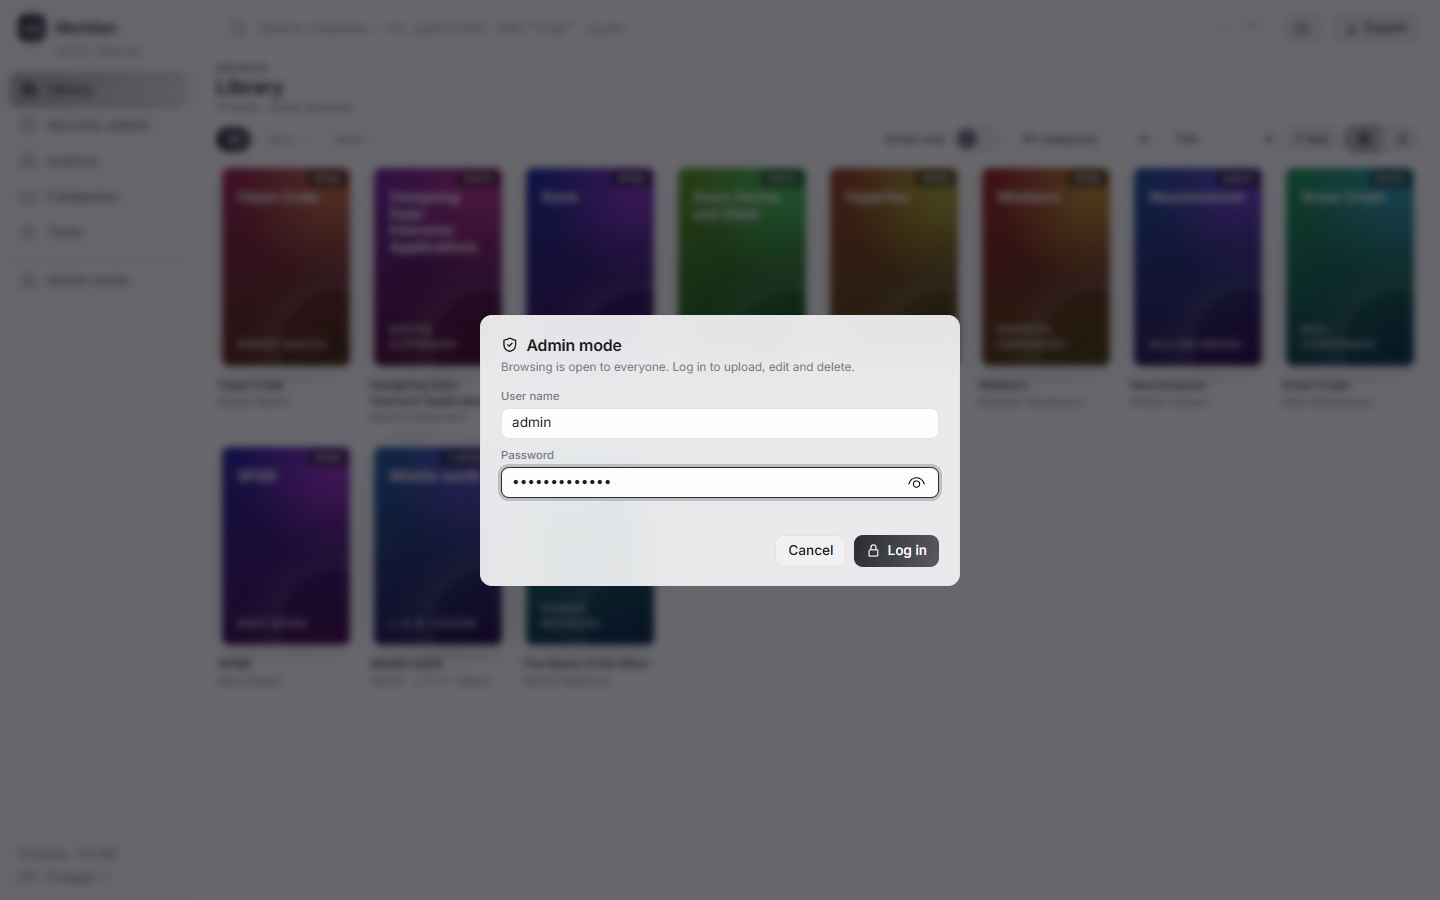
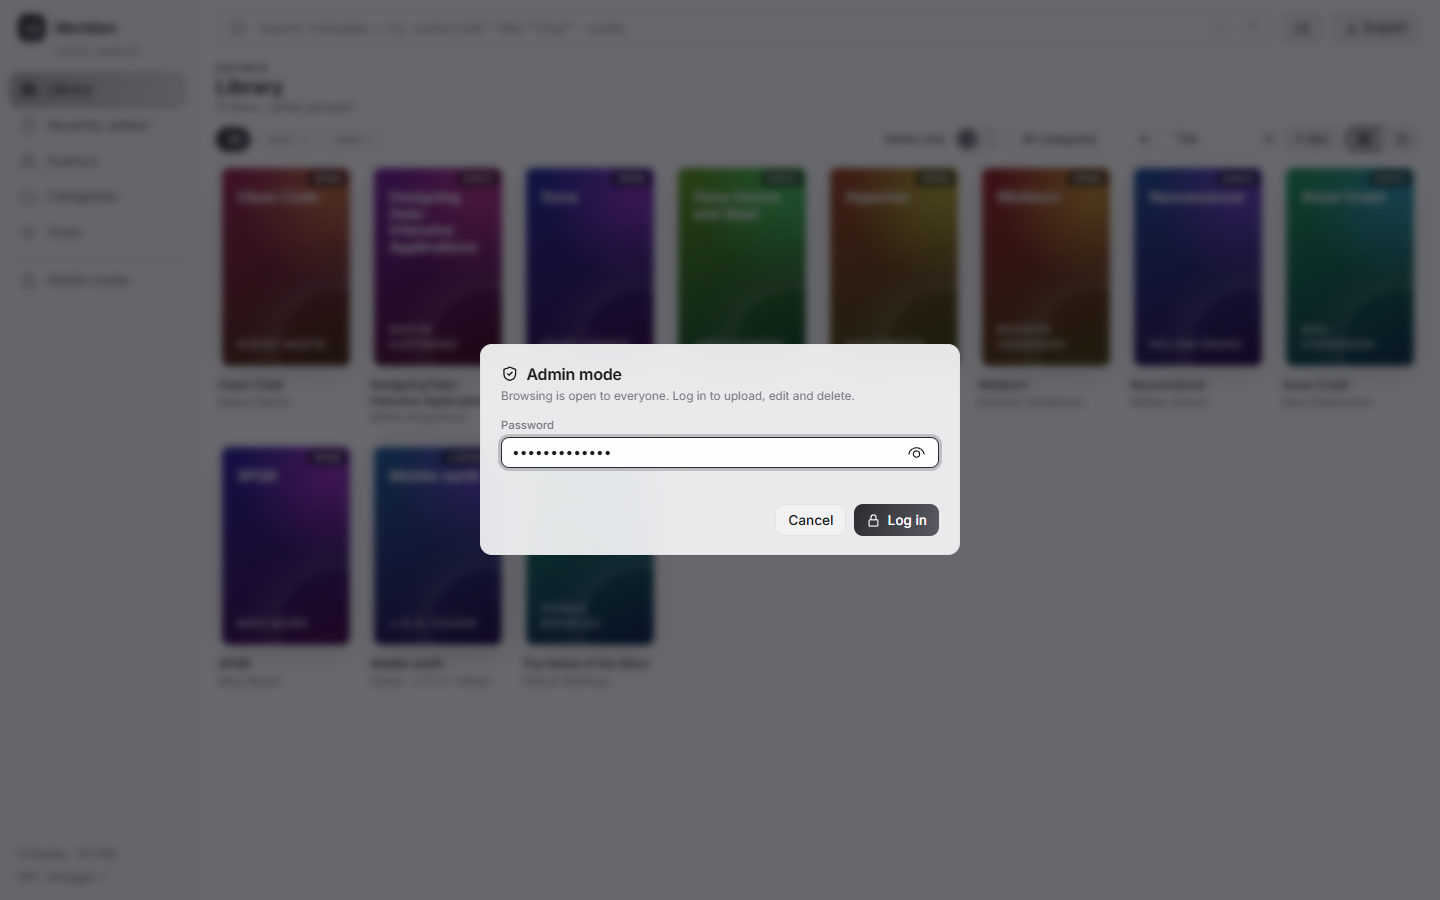
pwd for admin

Changed region(s): [[0.3125, 0.3422, 0.6875, 0.6533]]

diff --git a/app/static/js/components.js b/app/static/js/components.js
@@ -267,8 +267,8 @@ class MxLogin extends HTMLElement {
       <form class="dialog glass cf" role="dialog" aria-labelledby="lg-title" autocomplete="on">
         <h2 id="lg-title">${icon("shield")} Admin mode</h2>
         <div class="muted small">Browsing is open to everyone. Log in to upload, edit and delete.</div>
-        <label class="field" style="margin-top:12px"><span>User name</span><input class="in" name="username" id="lg-user" autocomplete="username" required></label>
-        <label class="field" style="margin-top:8px"><span>Password</span><input class="in" name="password" type="password" autocomplete="current-password" required></label>
+        <input type="text" name="username" value="admin" autocomplete="username" hidden>
+        <label class="field" style="margin-top:12px"><span>Password</span><input class="in" name="password" id="lg-pw" type="password" autocomplete="current-password" required></label>
         <div class="small" id="lg-err" role="alert" style="color:#ff6b81;min-height:1.2em;margin-top:8px"></div>
         <div class="dialog-actions"><button class="btn" type="button" id="lg-no">Cancel</button><button class="btn primary" type="submit" id="lg-go">${icon("lock")}Log in</button></div>
       </form>`;
@@ -281,11 +281,11 @@ class MxLogin extends HTMLElement {
       e.preventDefault();
       const go = $("#lg-go"); go.disabled = true; $("#lg-err").textContent = "";
       try {
-        await adminLogin($("#lg-user").value.trim(), e.target.password.value);
+        await adminLogin($("#lg-pw").value);
         done(); toast("Admin mode on");
       } catch (err) { go.disabled = false; $("#lg-err").textContent = err.message; e.target.password.select(); }
     };
-    $("#lg-user").focus();
+    $("#lg-pw").focus();
   }
 }
 customElements.define("mx-login", MxLogin);

diff --git a/app/static/js/api.js b/app/static/js/api.js
@@ -176,7 +176,7 @@ export function setAuth(next) {
   if (before !== `${auth.enabled}${auth.admin}`) emit("auth-changed", { ...auth });
 }
 export const loadAuth = async () => { try { const s = await api("/auth/status", { quiet: true }); setAuth({ enabled: s.auth_enabled, admin: s.admin }); } catch {} };
-export const adminLogin = async (username, password) => { const s = await api("/auth/login", { json: { username, password }, quiet: true }); setAuth({ enabled: s.auth_enabled, admin: s.admin }); };
+export const adminLogin = async (password) => { const s = await api("/auth/login", { json: { password }, quiet: true }); setAuth({ enabled: s.auth_enabled, admin: s.admin }); };
 export const adminLogout = async () => { try { await api("/auth/logout", { method: "POST", quiet: true }); } catch {} setAuth({ admin: false }); };
 
 // ---- user preferences (theme, cover borders), persisted per browser

diff --git a/app/auth.py b/app/auth.py
@@ -1,5 +1,5 @@
 """Admin mode. Everything can be read without logging in; changing the library (upload, edit, delete, maintenance)
-needs admin mode. The credentials come from the ADMIN_USER and ADMIN_PASSWORD environment variables. If either is
+needs admin mode. The password comes from the ADMIN_PASSWORD environment variable (the user name is always "admin"). If it is
 unset, access control is switched off and every write is allowed (the pre-existing behaviour)."""
 import hashlib
 import hmac
@@ -12,6 +12,7 @@ from pydantic import BaseModel
 
 from .config import settings
 
+USER = "admin"   # fixed; only the password is configurable
 COOKIE = "meridian_admin"
 SESSION_SECONDS = 12 * 3600
 MAX_FAILS, LOCK_SECONDS = 5, 60
@@ -21,12 +22,12 @@ _fails: dict[str, tuple[int, float]] = {}   # client ip -> (consecutive failures
 
 
 def enabled() -> bool:
-    return bool(settings.admin_user and settings.admin_password)
+    return bool(settings.admin_password)
 
 
 def _key() -> bytes:
-    # derived from the credentials: sessions survive a restart and stop working when the password changes
-    return hashlib.sha256(f"meridian-session|{settings.admin_user}|{settings.admin_password}".encode()).digest()
+    # derived from the password: sessions survive a restart and stop working when the password changes
+    return hashlib.sha256(f"meridian-session|{settings.admin_password}".encode()).digest()
 
 
 def _sig(payload: str) -> str:
@@ -47,12 +48,12 @@ def valid_token(token: str | None) -> bool:
 
 
 def check_credentials(user: str, password: str) -> bool:
-    ok_user = hmac.compare_digest(user.encode(), settings.admin_user.encode())
+    ok_user = hmac.compare_digest(user.encode(), USER.encode())
     ok_pass = hmac.compare_digest(password.encode(), settings.admin_password.encode())
     return ok_user and ok_pass
 
 
-_basic = HTTPBasic(auto_error=False, description="The admin user name and password (same as the web UI's Admin mode)")
+_basic = HTTPBasic(auto_error=False, description="User name `admin` and the admin password (the same password as the web UI's Admin mode)")
 
 
 def is_admin(request: Request, creds: HTTPBasicCredentials | None = None) -> bool:
@@ -70,7 +71,6 @@ def require_admin(request: Request, creds: HTTPBasicCredentials | None = Depends
 
 
 class Login(BaseModel):
-    username: str
     password: str
 
 
@@ -87,15 +87,15 @@ def status(request: Request):
              description="Sets an HttpOnly session cookie (12 hours). Five wrong attempts lock the client out for a minute.")
 def login(body: Login, request: Request, response: Response):
     if not enabled():
-        raise HTTPException(400, "Admin mode is not configured on this server (set ADMIN_USER and ADMIN_PASSWORD)")
+        raise HTTPException(400, "Admin mode is not configured on this server (set ADMIN_PASSWORD)")
     ip = request.client.host if request.client else "?"
     count, until = _fails.get(ip, (0, 0.0))
     if until > time.time():
         raise HTTPException(429, f"Too many attempts - try again in {int(until - time.time()) + 1}s")
-    if not check_credentials(body.username, body.password):
+    if not check_credentials(USER, body.password):
         count += 1
         _fails[ip] = (0, time.time() + LOCK_SECONDS) if count >= MAX_FAILS else (count, 0.0)
-        raise HTTPException(401, "Wrong user name or password")
+        raise HTTPException(401, "Wrong password")
     _fails.pop(ip, None)
     response.set_cookie(COOKIE, make_token(), max_age=SESSION_SECONDS, httponly=True, samesite="strict",
                         secure=request.url.scheme == "https", path="/")

diff --git a/tests/test_auth.py b/tests/test_auth.py
@@ -10,7 +10,6 @@ from .conftest import make_epub
 
 @pytest.fixture()
 def locked(monkeypatch):
-    monkeypatch.setattr(settings, "admin_user", "boss")
     monkeypatch.setattr(settings, "admin_password", "s3cret!")
     auth._fails.clear()
 
@@ -22,7 +21,7 @@ def _up(client, **kw):
 def test_open_when_no_credentials_configured(client):
     assert client.get("/api/auth/status").json() == {"auth_enabled": False, "admin": True}
     assert _up(client).status_code == 200
-    assert client.post("/api/auth/login", json={"username": "x", "password": "y"}).status_code == 400
+    assert client.post("/api/auth/login", json={"password": "y"}).status_code == 400
 
 
 def test_reading_is_public_but_writes_need_admin(client, locked):
@@ -43,9 +42,8 @@ def test_reading_is_public_but_writes_need_admin(client, locked):
 
 
 def test_login_logout_cycle(client, locked):
-    assert client.post("/api/auth/login", json={"username": "boss", "password": "nope"}).status_code == 401
-    assert client.post("/api/auth/login", json={"username": "nobody", "password": "s3cret!"}).status_code == 401
-    r = client.post("/api/auth/login", json={"username": "boss", "password": "s3cret!"})
+    assert client.post("/api/auth/login", json={"password": "nope"}).status_code == 401
+    r = client.post("/api/auth/login", json={"password": "s3cret!"})
     assert r.status_code == 200 and "httponly" in r.headers["set-cookie"].lower() and "samesite=strict" in r.headers["set-cookie"].lower()
     assert client.get("/api/auth/status").json()["admin"] is True
     assert _up(client).status_code == 200
@@ -55,9 +53,11 @@ def test_login_logout_cycle(client, locked):
 
 
 def test_basic_auth_header_for_scripts(client, locked):
-    good = {"Authorization": "Basic " + base64.b64encode(b"boss:s3cret!").decode()}
-    bad = {"Authorization": "Basic " + base64.b64encode(b"boss:wrong").decode()}
+    good = {"Authorization": "Basic " + base64.b64encode(b"admin:s3cret!").decode()}
+    bad = {"Authorization": "Basic " + base64.b64encode(b"admin:wrong").decode()}
+    other_user = {"Authorization": "Basic " + base64.b64encode(b"root:s3cret!").decode()}
     assert _up(client, headers=bad).status_code == 401
+    assert _up(client, headers=other_user).status_code == 401      # the user name is always admin
     assert _up(client, headers=good).status_code == 200
 
 
@@ -68,12 +68,11 @@ def test_forged_expired_and_stale_tokens_rejected(client, locked, monkeypatch):
     monkeypatch.setattr(auth.time, "time", lambda: 10**10)
     assert not auth.valid_token(tok)                                   # expired
     monkeypatch.undo()
-    monkeypatch.setattr(settings, "admin_user", "boss")
     monkeypatch.setattr(settings, "admin_password", "changed")
     assert not auth.valid_token(tok)                                   # password changed -> old sessions die
 
 
 def test_lockout_after_repeated_failures(client, locked):
     for _ in range(auth.MAX_FAILS):
-        assert client.post("/api/auth/login", json={"username": "boss", "password": "bad"}).status_code == 401
-    assert client.post("/api/auth/login", json={"username": "boss", "password": "s3cret!"}).status_code == 429
+        assert client.post("/api/auth/login", json={"password": "bad"}).status_code == 401
+    assert client.post("/api/auth/login", json={"password": "s3cret!"}).status_code == 429

diff --git a/scripts/capture_screenshots.py b/scripts/capture_screenshots.py
@@ -9,7 +9,7 @@ to run unless that library is empty:
     python scripts/capture_screenshots.py                       # terminal 2
 
 Options: --url http://127.0.0.1:8000   --browser msedge|chrome|chromium
-         --admin-user U --admin-password P   when the demo server has admin mode on (ADMIN_USER / ADMIN_PASSWORD):
+         --admin-password P   when the demo server has admin mode on (ADMIN_PASSWORD, user is always admin):
                                              the script logs in through the UI, so the shots show the full admin view,
                                              and it also writes admin-login.png (the login dialog)
 """
@@ -84,8 +84,7 @@ def capture(base: str, browser: str, creds=None) -> None:
             pg.wait_for_timeout(900)  # covers and web fonts
             if creds:
                 pg.click(".admin-nav")
-                pg.fill("#lg-user", creds[0])
-                pg.fill("mx-login input[type=password]", creds[1])
+                pg.fill("#lg-pw", creds[1])
                 if theme == "vanilla" and not (OUT / "_login_done").exists():
                     pg.wait_for_timeout(300)
                     pg.screenshot(path=str(OUT / "admin-login.png"))
@@ -113,11 +112,10 @@ def main() -> None:
     ap = argparse.ArgumentParser(description=__doc__, formatter_class=argparse.RawDescriptionHelpFormatter)
     ap.add_argument("--url", default="http://127.0.0.1:8000")
     ap.add_argument("--browser", default="msedge", help="msedge, chrome or chromium (Playwright's own build)")
-    ap.add_argument("--admin-user", default="")
     ap.add_argument("--admin-password", default="")
     a = ap.parse_args()
     base = a.url.rstrip("/")
-    creds = (a.admin_user, a.admin_password) if a.admin_user else None
+    creds = ("admin", a.admin_password) if a.admin_password else None
     seed(base + "/api", creds)
     capture(base, a.browser, creds)
     print("Wrote", ", ".join(sorted(f.name for f in OUT.glob("*.png"))), "to", OUT)

diff --git a/app/main.py b/app/main.py
@@ -1,4 +1,5 @@
 import json
+import logging
 from contextlib import asynccontextmanager
 from pathlib import Path
 
@@ -10,6 +11,7 @@ from fastapi.staticfiles import StaticFiles
 from . import __version__
 from .config import settings
 from .db import init_db
+from . import auth
 from .auth import router as auth_router
 from .routers import books, library, upload
 
@@ -41,6 +43,11 @@ TAGS = [
 @asynccontextmanager
 async def lifespan(_: FastAPI):
     init_db()
+    log = logging.getLogger("uvicorn.error")
+    if auth.enabled():
+        log.info("Admin mode is ON: uploading, editing and deleting need the admin password")
+    else:
+        log.warning("Admin mode is OFF (ADMIN_PASSWORD is not set): anyone who can reach this server can change the library")
     # stale temp files from an interrupted run
     for p in settings.tmp_dir.glob("*"):
         p.unlink(missing_ok=True)

diff --git a/app/config.py b/app/config.py
@@ -13,8 +13,7 @@ class Settings:
     def __init__(self) -> None:
         self.data_dir = Path(os.getenv("DATA_DIR", "./data")).resolve()
         self.import_dir = Path(os.getenv("IMPORT_DIR", "./import")).resolve()
-        # Admin mode: with both set, uploading, editing, deleting and maintenance need a login. Unset = no access control.
-        self.admin_user = os.getenv("ADMIN_USER", "").strip()
+        # Admin mode: with a password set, uploading, editing, deleting and maintenance need a login. Unset = no access control.
         self.admin_password = os.getenv("ADMIN_PASSWORD", "")
         # Safety cap for a single uploaded .zip archive once expanded (bytes).
         self.max_archive_bytes = int(os.getenv("MAX_ARCHIVE_BYTES", str(8 * 1024**3)))

diff --git a/README.md b/README.md
@@ -55,7 +55,7 @@ Runs in one container, including on a Raspberry Pi.
 
 ![Settings panel with theme picker, font, text size and cover border controls](docs/screenshots/themes-settings.png)
 
-**Admin mode** - without a login the app is read-only. Click *Admin mode* in the left menu and sign in with the user and password you set in the environment; the menu then shows an *ADMIN MODE* badge.
+**Admin mode** - without a login the app is read-only. Click *Admin mode* in the left menu and enter the password you set in the environment; the menu then shows an *ADMIN MODE* badge.
 
 ![Admin mode login dialog](docs/screenshots/admin-login.png)
 
@@ -80,7 +80,6 @@ MERIDIAN_IMPORT=./import    # optional read-only folder for server-side imports
 MERIDIAN_UID=1000           # set to the output of `id -u`
 MERIDIAN_GID=1000           # set to the output of `id -g`
 MERIDIAN_PORT=8000
-MERIDIAN_ADMIN_USER=admin             # admin mode: see below
 MERIDIAN_ADMIN_PASSWORD=a-long-random-password
 ```
 
@@ -90,10 +89,10 @@ On Docker Desktop (Windows/macOS) permissions are usually not an issue.
 A ready-made template with every option is in [`.env.example`](.env.example).
 
 **Admin mode.** Anyone who can reach the app can browse, search, download and export. Uploading, editing metadata,
-deleting and the maintenance tools need admin mode: click **Admin mode** in the left menu and log in with
-`MERIDIAN_ADMIN_USER` / `MERIDIAN_ADMIN_PASSWORD`. While you are in admin mode the menu shows an **ADMIN MODE** badge;
-the session lasts 12 hours or until you click **Exit**. If either value is empty, access control is off and every
-write is allowed. Scripts can send HTTP Basic credentials instead of logging in. Serve the app over HTTPS (for example
+deleting and the maintenance tools need admin mode: click **Admin mode** in the left menu and log in with the
+password from `MERIDIAN_ADMIN_PASSWORD` (the user name is always `admin`). While you are in admin mode the menu shows an **ADMIN MODE** badge;
+the session lasts 12 hours or until you click **Exit**. If the password is empty, access control is off and every
+write is allowed. Scripts can send HTTP Basic credentials (user `admin`) instead of logging in. Serve the app over HTTPS (for example
 behind a reverse proxy) if it is reachable from outside your own network, because the password is sent when you log in.
 
 ## Run
@@ -151,7 +150,8 @@ docker compose logs -t | grep -i error # timestamps, filtered for errors
 
 docker compose stop                    # stop, keep the container
 docker compose start                   # start it again
-docker compose restart                 # restart (e.g. after changing .env)
+docker compose restart                 # restart (does NOT pick up .env changes)
+docker compose up -d                   # apply a changed .env (e.g. a new admin password): recreates the container, data is kept
 
 docker compose down                    # stop and remove the container (data folder is untouched)
 docker compose down --rmi local        # ...and the image too (frees disk space; the next `up --build` rebuilds it)
@@ -174,7 +174,7 @@ mkdir -p data
 
 | Requirement | How it works |
 |---|---|
-| Admin mode (access control) | Reading is open. Every route that changes the library (upload, edit, rename, covers, delete, bulk edit, cleanup, server import, thumbnail rebuild) needs admin mode, otherwise it answers `401`. Set `ADMIN_USER` and `ADMIN_PASSWORD` (`MERIDIAN_ADMIN_USER` / `MERIDIAN_ADMIN_PASSWORD` in `.env` for Docker Compose); if either is empty, nothing is restricted. In the UI use *Admin mode* in the left menu (12-hour session, `Exit` to leave). Scripts and Swagger's **Authorize** button use the same user and password as HTTP Basic credentials; `POST /api/auth/login` sets the cookie the UI uses. Five wrong passwords lock a client out for a minute. |
+| Admin mode (access control) | Reading is open. Every route that changes the library (upload, edit, rename, covers, delete, bulk edit, cleanup, server import, thumbnail rebuild) needs admin mode, otherwise it answers `401`. Set `ADMIN_PASSWORD` (`MERIDIAN_ADMIN_PASSWORD` in `.env` for Docker Compose); if it is empty, nothing is restricted. In the UI use *Admin mode* in the left menu (12-hour session, `Exit` to leave). Scripts and Swagger's **Authorize** button use the same password as HTTP Basic credentials (user `admin`); `POST /api/auth/login` sets the cookie the UI uses. Five wrong passwords lock a client out for a minute. |
 | Upload EPUB, PDF, DOCX, MOBI, AZW3, FB2, TXT, CBZ… | `POST /api/books/upload` (see `app/config.py` for the full list). The Add books dialog can also set a **category** and a **series** for the whole upload (`category`, `series` form fields); a series given here replaces any series the file already has. |
 | Upload whole folders recursively | `POST /api/books/upload-folder` takes files plus their relative paths (the UI uses the browser directory picker or drag-and-drop of folders; Chrome asks "Upload N files to this site?" for the picker, which a page cannot turn off, while dropping a folder does not). `.zip` archives are expanded recursively. `POST /api/import` imports a folder already on the server. Folder names can become categories. |
 | Import metadata JSON | Upload `*.json` (e.g. an exported `book-name-info.json`) alone, in a folder, in a `.zip`, or from the server import folder. It is matched to the book by `id`, then title (case-insensitive), then file name. **Books are always processed before JSON files.** Empty fields are filled in; if the JSON would change a value the book already has, nothing is applied and you get a `warning` listing each field's current vs. imported value. Tick "overwrite" (`overwrite_json=true`) to apply anyway. A category that was merely inferred from the upload folder name does not count as an existing value. |
@@ -239,15 +239,15 @@ The UI fonts (Latin subset, SIL Open Font License; licences in `app/static/fonts
 Regenerate the README screenshots against an empty throwaway instance (the script adds demo books and refuses to run on a library that already has books):
 
 ```bash
-DATA_DIR=./.demo-data uvicorn app.main:app --port 8000     # terminal 1 (add ADMIN_USER=a ADMIN_PASSWORD=b to also capture admin mode,
-                                                           # then pass --admin-user a --admin-password b to the script)
+DATA_DIR=./.demo-data uvicorn app.main:app --port 8000     # terminal 1 (add ADMIN_PASSWORD=b to also capture admin mode,
+                                                           # then pass --admin-password b to the script)
 pip install playwright                                     # once (uses an installed Edge/Chrome; or `playwright install chromium` and pass --browser chromium)
 python scripts/capture_screenshots.py                      # terminal 2 -> docs/screenshots/*.png
 ```
 
 ### Configuration and layout
 
-Environment: `DATA_DIR` (default `./data`), `IMPORT_DIR` (default `./import`), `MAX_ARCHIVE_BYTES`, `ADMIN_USER` and `ADMIN_PASSWORD` (admin mode; both empty = no access control) (see [Setting up the data folder](#setting-up-the-data-folder) for the Compose variables).
+Environment: `DATA_DIR` (default `./data`), `IMPORT_DIR` (default `./import`), `MAX_ARCHIVE_BYTES`, `ADMIN_PASSWORD` (admin mode; empty = no access control) (see [Setting up the data folder](#setting-up-the-data-folder) for the Compose variables).
 
 Layout: `app/service.py` (ingest, edit, search, cleanup), `app/metadata.py` (EPUB/PDF/DOCX read & write), `app/search.py` (query parser), `app/auth.py` (admin mode), `app/routers/` (API), `app/static/` (UI - plain ES modules and native web components, no build step).
 
